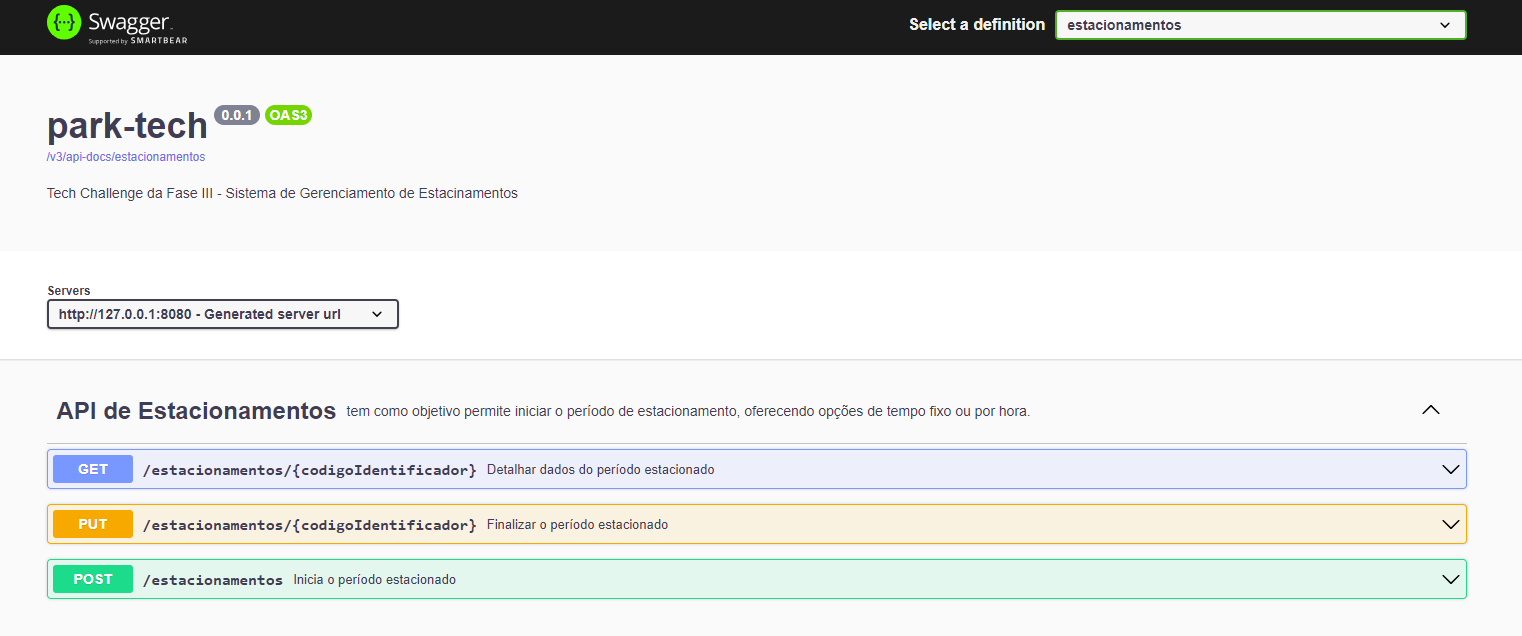
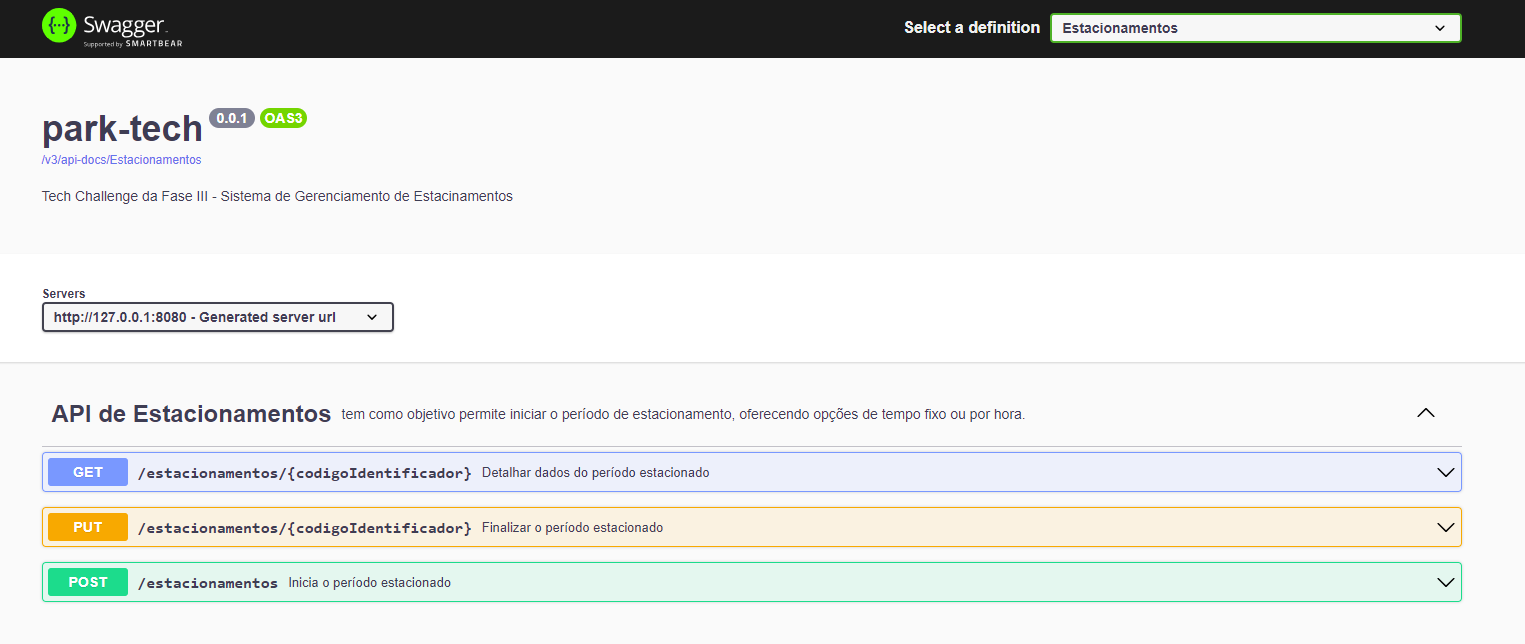
implementação do Controle de Tempo Estacionado #3

diff --git a/park-tech/src/main/java/br/com/fsales/parktech/config/GroupedOpenApiConfig.java b/park-tech/src/main/java/br/com/fsales/parktech/config/GroupedOpenApiConfig.java
@@ -26,7 +26,7 @@ public class GroupedOpenApiConfig {
 	@Bean
 	public GroupedOpenApi estacionamentoOpenApi() {
 		String[] paths = { String.format("%s%s", ParktechResource.ESTACIONAMENTO, PATH_POSFIXO) };
-		return GroupedOpenApi.builder().group("estacionamentos").pathsToMatch(paths).build();
+		return GroupedOpenApi.builder().group("Estacionamentos").pathsToMatch(paths).build();
 	}
 
 
